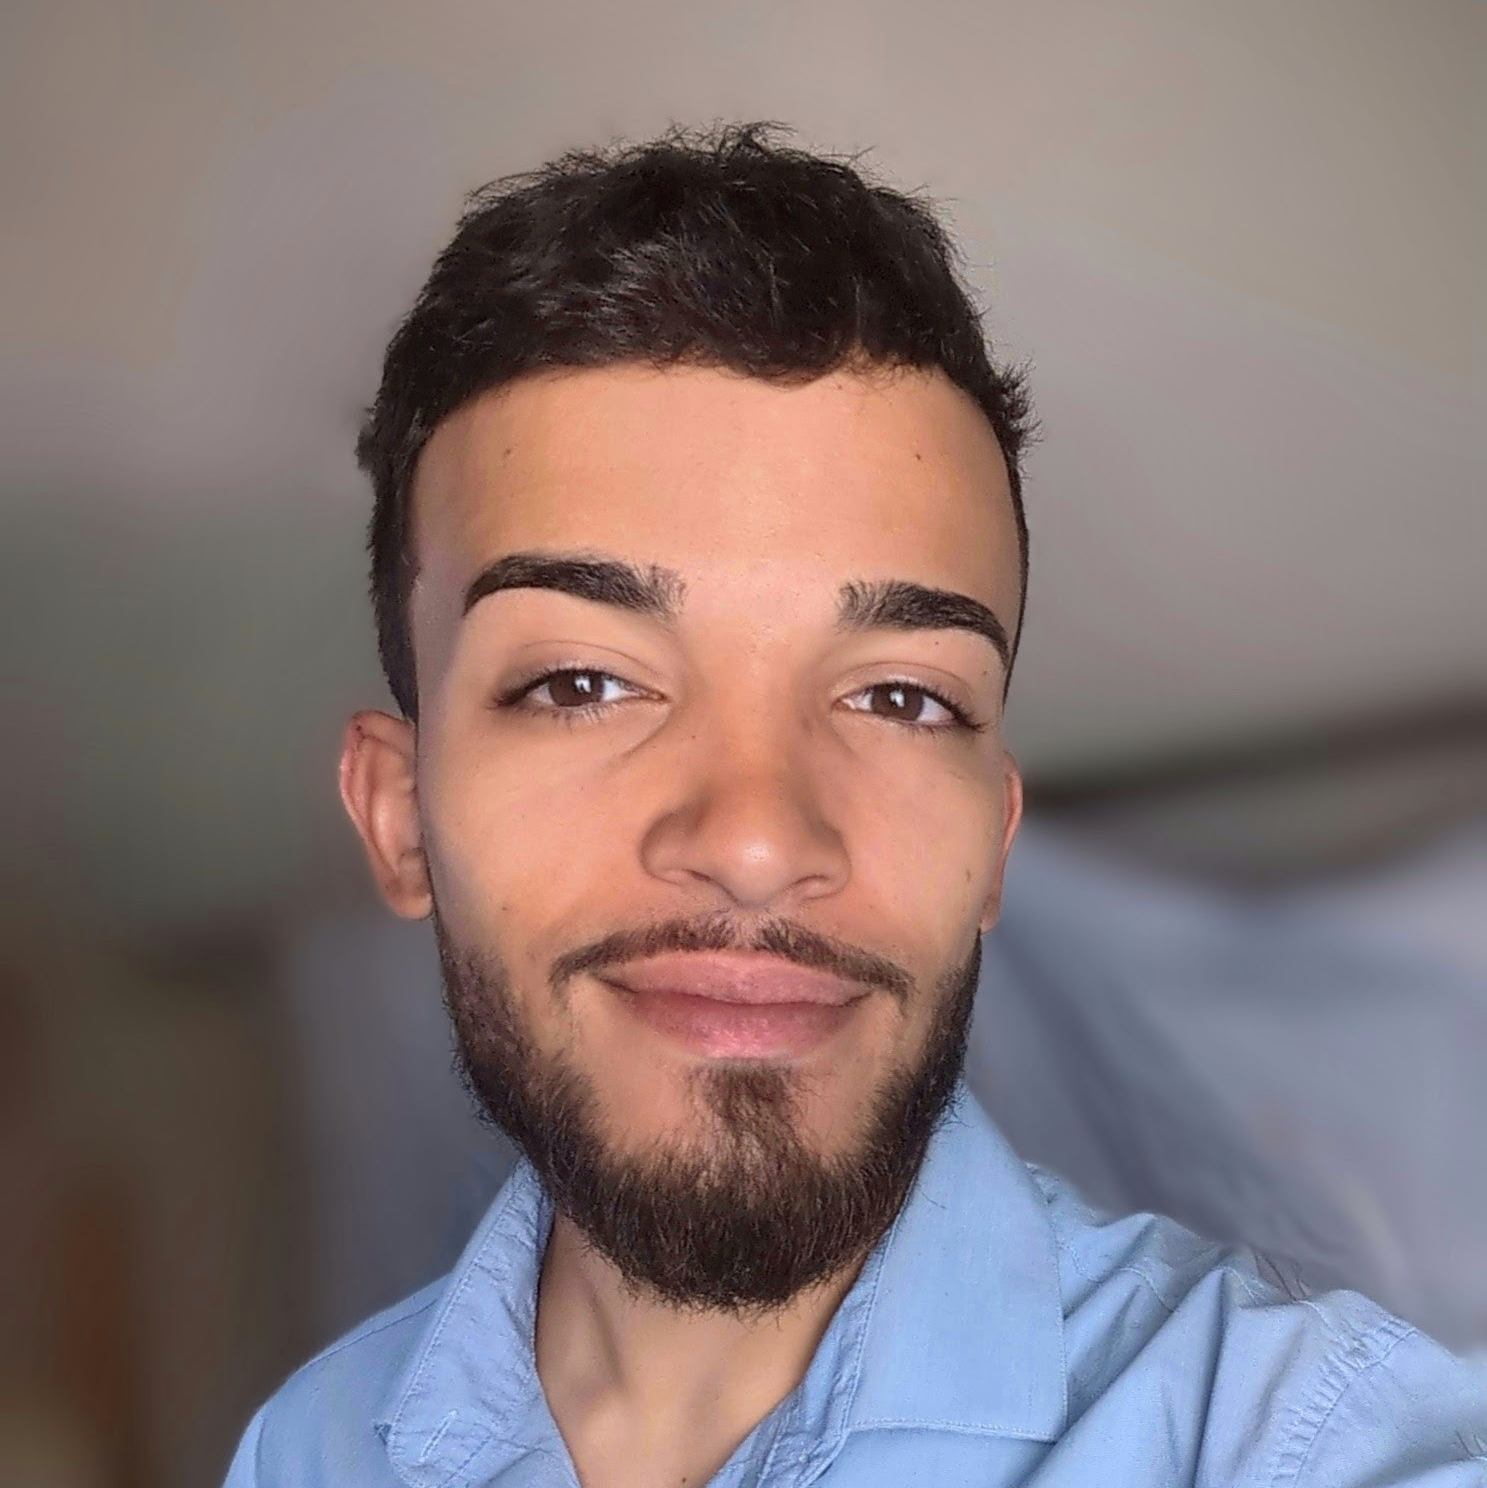
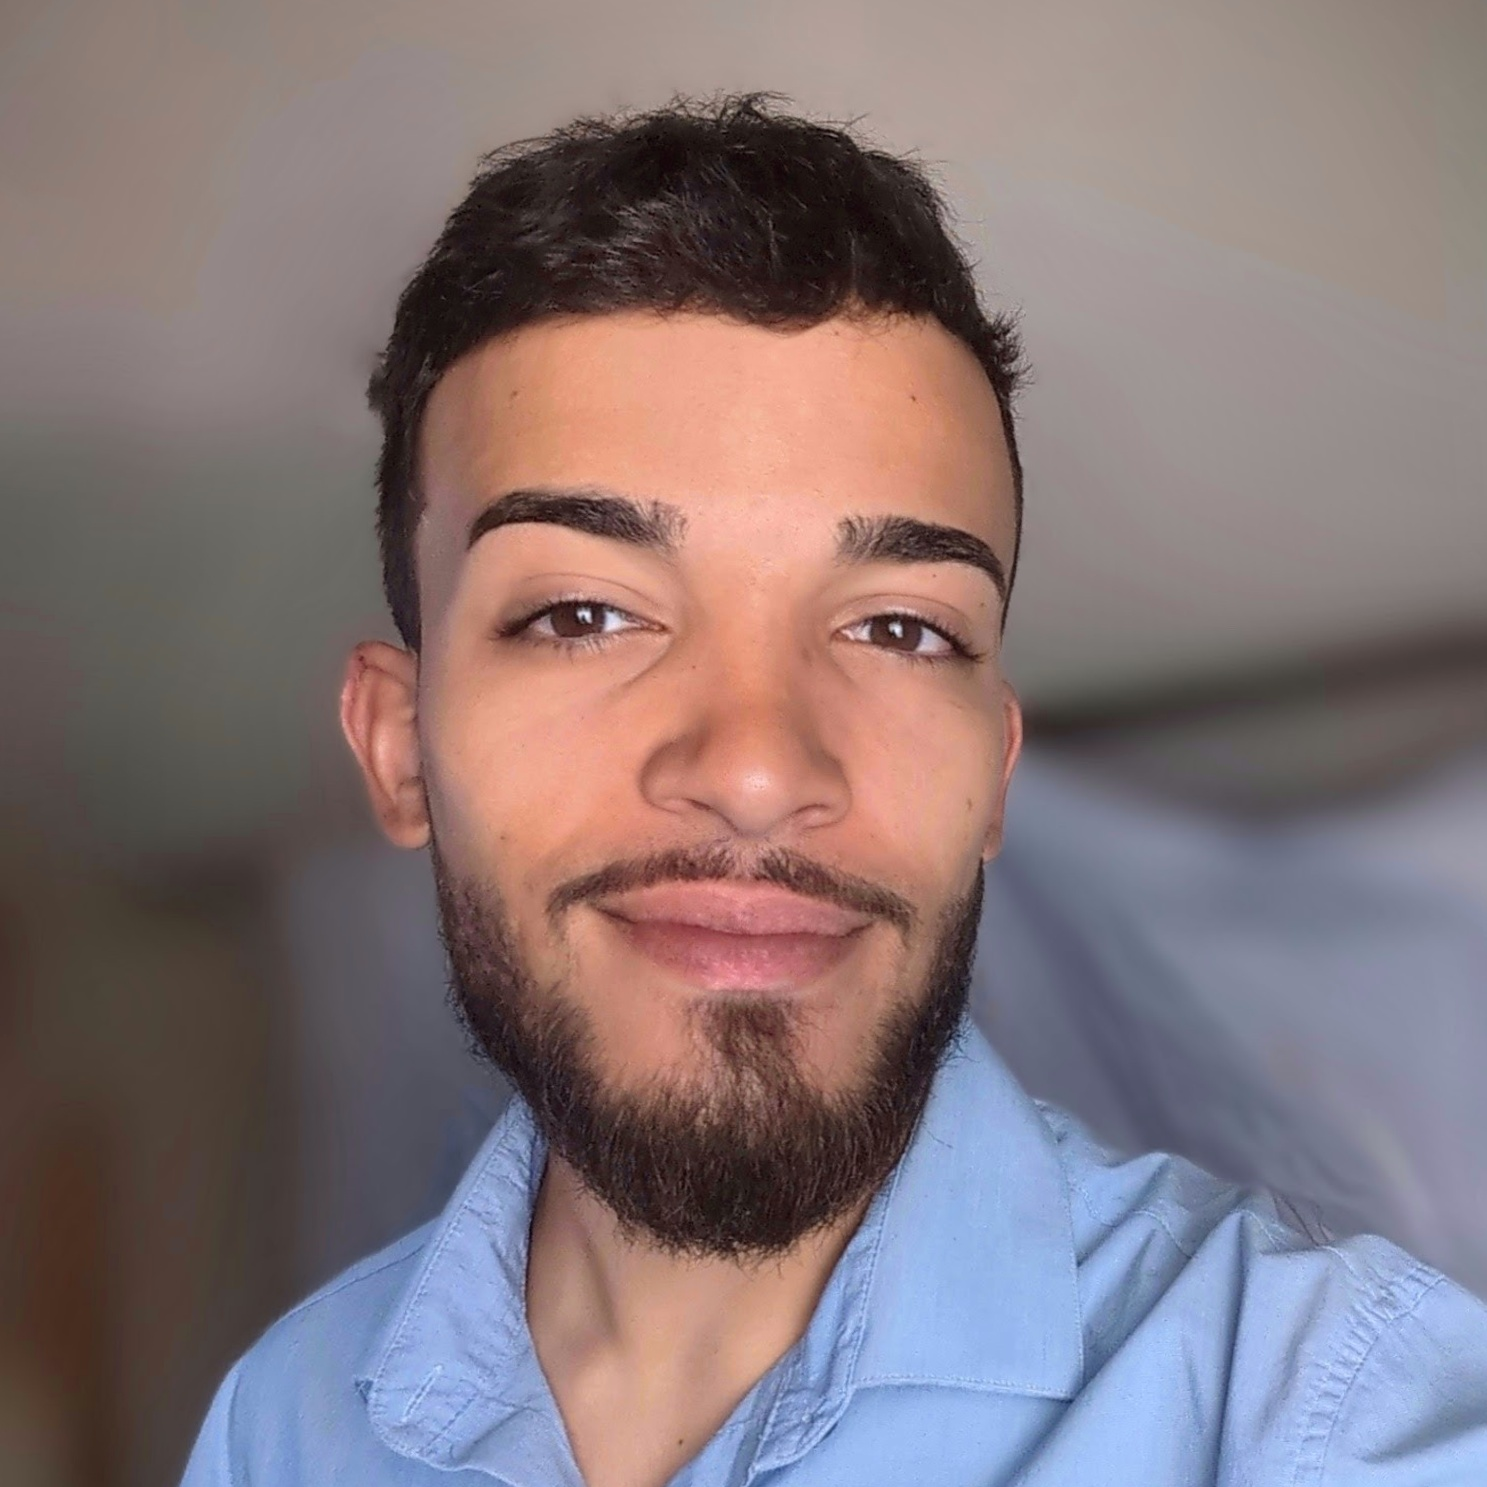
Updated profile image.

diff --git a/index.html b/index.html
@@ -73,7 +73,7 @@
           <!-- Profile Image -->
           <div class="column is-flex is-justify-content-center">
             <figure class="image">
-              <img class="is-rounded" src="./assets/images/profile.jpg" style="width: 250px; height: auto;"/>
+              <img class="is-rounded" src="./assets/images/profile.jpg" style="width: 200px; height: auto;"/>
             </figure>
           </div>
 
